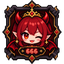
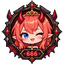
Обновлены иконки достижений score_666 и lava_66

diff --git a/sw.js b/sw.js
@@ -1,5 +1,5 @@
 // Сгенерировано tools/build_assets.py — не править руками
-const CACHE = 'hellka-51f51cad18';
+const CACHE = 'hellka-28721101d7';
 const FILES = [
 "./",
 "index.html",
